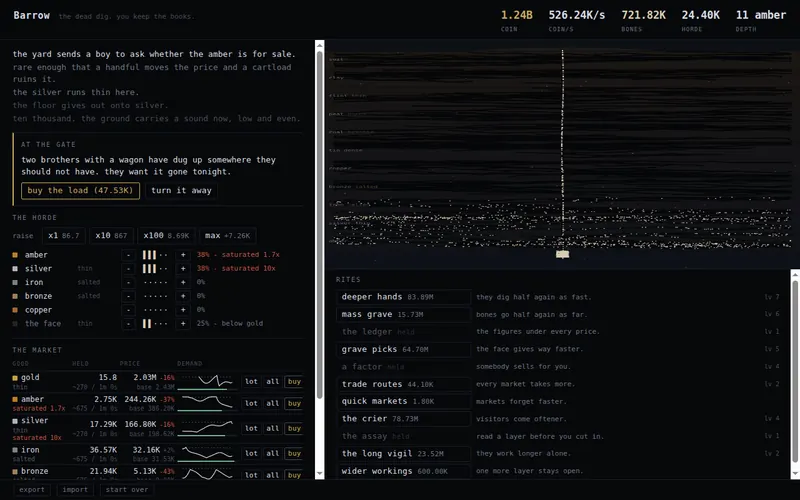
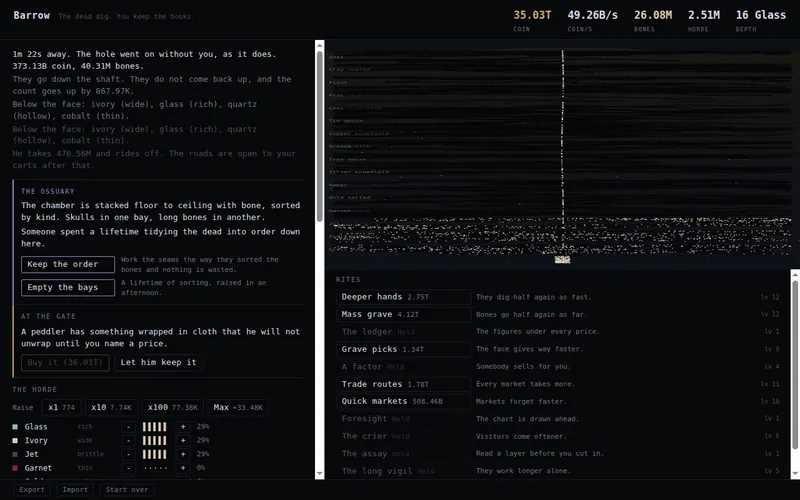
Barrow: build 6

diff --git a/barrow/src/visitors.js b/barrow/src/visitors.js
@@ -18,11 +18,11 @@
 // it was not handed.
 // ---------------------------------------------------------------------------
 
-import { hash, unit, range, pick } from './rng.js?v=5';
-import * as Mk from './market.js?v=5';
-import * as Lore from './lore.js?v=5';
-import { fill } from '../config.js?v=5';
-import { fmt, fmtCoin, fmtCount } from './numbers.js?v=5';
+import { hash, unit, range, pick } from './rng.js?v=6';
+import * as Mk from './market.js?v=6';
+import * as Lore from './lore.js?v=6';
+import { fill } from '../config.js?v=6';
+import { fmt, fmtCoin, fmtCount } from './numbers.js?v=6';
 
 const KINDS = ['buyer', 'buyer', 'bonecart', 'gang', 'reeve', 'relic', 'surveyor', 'mourner'];
 
@@ -46,13 +46,27 @@ function noteTaken(state, kind) {
   state.visitorsBought[kind] = takenOf(state, kind) + 1;
 }
 
-/** The kind at the gate: the seed's choice, or the next one still with stock. */
+/** Whether the ground the surveyor would read has already been read. */
+function groundIsRead(state, cfg) {
+  for (let i = 1; i <= cfg.visitors.surveyor.reads; i++) {
+    if (!state.read[state.depth + i]) return false;
+  }
+  return true;
+}
+
+/**
+ * The kind at the gate: the seed's choice, or the next one still worth
+ * hearing. A caller is skipped when there is nothing left for them to sell -
+ * the two who deal in permanent multipliers run out of stock, and a surveyor
+ * has nothing to say about ground that has already been read.
+ */
 function kindFor(state, cfg, i) {
   const start = hash(state.seed, 'visit-kind:' + i) % KINDS.length;
   for (let n = 0; n < KINDS.length; n++) {
     const kind = KINDS[(start + n) % KINDS.length];
     const limit = LIMITS[kind];
     if (limit && takenOf(state, kind) >= cfg.visitors[kind][limit]) continue;
+    if (kind === 'surveyor' && groundIsRead(state, cfg)) continue;
     return kind;
   }
   return KINDS[start];

diff --git a/barrow/src/sim.js b/barrow/src/sim.js
@@ -17,17 +17,17 @@
 // line they want said. The simulation never touches the page.
 // ---------------------------------------------------------------------------
 
-import { CONFIG as DEFAULT } from '../config.js?v=5';
-import * as Mat from './materials.js?v=5';
-import * as Mk from './market.js?v=5';
-import * as H from './horde.js?v=5';
-import * as R from './rites.js?v=5';
-import * as Rv from './reveal.js?v=5';
-import * as Ch from './chambers.js?v=5';
-import * as Vi from './visitors.js?v=5';
-import * as Rb from './rebirth.js?v=5';
-import * as Lore from './lore.js?v=5';
-import { createGround } from './ground.js?v=5';
+import { CONFIG as DEFAULT } from '../config.js?v=6';
+import * as Mat from './materials.js?v=6';
+import * as Mk from './market.js?v=6';
+import * as H from './horde.js?v=6';
+import * as R from './rites.js?v=6';
+import * as Rv from './reveal.js?v=6';
+import * as Ch from './chambers.js?v=6';
+import * as Vi from './visitors.js?v=6';
+import * as Rb from './rebirth.js?v=6';
+import * as Lore from './lore.js?v=6';
+import { createGround } from './ground.js?v=6';
 
 export const SAVE_VERSION = 2;
 

diff --git a/barrow/src/game.js b/barrow/src/game.js
@@ -14,16 +14,16 @@
 // reloads onto it.
 // ---------------------------------------------------------------------------
 
-import { storageKey, fill } from '../config.js?v=5';
-import { createSim, restoreSim, openedState } from './sim.js?v=5';
-import * as Save from './save.js?v=5';
-import * as Rb from './rebirth.js?v=5';
-import * as Lore from './lore.js?v=5';
-import { hash } from './rng.js?v=5';
-import { createUI } from './ui.js?v=5';
-import { createView } from './view.js?v=5';
-import { fmtTime, fmt, fmtCoin, fmtCount } from './numbers.js?v=5';
-import * as Mat from './materials.js?v=5';
+import { storageKey, fill } from '../config.js?v=6';
+import { createSim, restoreSim, openedState } from './sim.js?v=6';
+import * as Save from './save.js?v=6';
+import * as Rb from './rebirth.js?v=6';
+import * as Lore from './lore.js?v=6';
+import { hash } from './rng.js?v=6';
+import { createUI } from './ui.js?v=6';
+import { createView } from './view.js?v=6';
+import { fmtTime, fmt, fmtCoin, fmtCount } from './numbers.js?v=6';
+import * as Mat from './materials.js?v=6';
 
 /**
  * @param {object} o

diff --git a/barrow/src/ui.js b/barrow/src/ui.js
@@ -11,14 +11,14 @@
 // The panels appear in the order the reveal flags are set and never go away.
 // ---------------------------------------------------------------------------
 
-import * as Mat from './materials.js?v=5';
-import * as Mk from './market.js?v=5';
-import * as H from './horde.js?v=5';
-import * as R from './rites.js?v=5';
-import * as Rb from './rebirth.js?v=5';
-import * as Lore from './lore.js?v=5';
-import { fmt, fmtCoin, fmtCount, fmtRate, fmtTime, fmtPct } from './numbers.js?v=5';
-import { fill } from '../config.js?v=5';
+import * as Mat from './materials.js?v=6';
+import * as Mk from './market.js?v=6';
+import * as H from './horde.js?v=6';
+import * as R from './rites.js?v=6';
+import * as Rb from './rebirth.js?v=6';
+import * as Lore from './lore.js?v=6';
+import { fmt, fmtCoin, fmtCount, fmtRate, fmtTime, fmtPct } from './numbers.js?v=6';
+import { fill } from '../config.js?v=6';
 
 const SVG = 'http://www.w3.org/2000/svg';
 

diff --git a/barrow/src/view.js b/barrow/src/view.js
@@ -14,9 +14,9 @@
 // per-frame cost is the dots.
 // ---------------------------------------------------------------------------
 
-import { goodAt, valueAt, hardnessAt, absorbAt, capUnits } from './materials.js?v=5';
-import { distribute, activeFrom } from './horde.js?v=5';
-import * as Lore from './lore.js?v=5';
+import { goodAt, valueAt, hardnessAt, absorbAt, capUnits } from './materials.js?v=6';
+import { distribute, activeFrom } from './horde.js?v=6';
+import * as Lore from './lore.js?v=6';
 
 /** mulberry32 */
 function rng(seed) {

diff --git a/barrow/src/rebirth.js b/barrow/src/rebirth.js
@@ -12,10 +12,10 @@
 // hour is worth before spending it.
 // ---------------------------------------------------------------------------
 
-import * as Lore from './lore.js?v=5';
-import { pick } from './rng.js?v=5';
-import { fill } from '../config.js?v=5';
-import { fmt, fmtCoin, fmtCount } from './numbers.js?v=5';
+import * as Lore from './lore.js?v=6';
+import { pick } from './rng.js?v=6';
+import { fill } from '../config.js?v=6';
+import { fmt, fmtCoin, fmtCount } from './numbers.js?v=6';
 
 export const LEGACY_VERSION = 1;
 

diff --git a/barrow/src/ground.js b/barrow/src/ground.js
@@ -12,8 +12,8 @@
 // first ask, and stored nowhere: a save is still just a depth.
 // ---------------------------------------------------------------------------
 
-import * as Mat from './materials.js?v=5';
-import { pickWeighted, unit } from './rng.js?v=5';
+import * as Mat from './materials.js?v=6';
+import { pickWeighted, unit } from './rng.js?v=6';
 
 const ONE = { value: 1, hardness: 1, absorb: 1, bones: 1, swell: 1, cap: 1 };
 

diff --git a/barrow/index.html b/barrow/index.html
@@ -239,8 +239,8 @@
 // src/, every number lives in config.js, and every sentence lives in
 // content.js.
 // ---------------------------------------------------------------------------
-import { CONFIG, applyIdentity } from './config.js?v=5';
-import { createGame } from './src/game.js?v=5';
+import { CONFIG, applyIdentity } from './config.js?v=6';
+import { createGame } from './src/game.js?v=6';
 
 applyIdentity(document);
 

diff --git a/barrow/src/lore.js b/barrow/src/lore.js
@@ -10,9 +10,9 @@
 // values and gives back a sentence.
 // ---------------------------------------------------------------------------
 
-import { CONTENT } from '../content.js?v=5';
-import { pick } from './rng.js?v=5';
-import { fill } from '../config.js?v=5';
+import { CONTENT } from '../content.js?v=6';
+import { pick } from './rng.js?v=6';
+import { fill } from '../config.js?v=6';
 
 /**
  * One line from a log pool.

diff --git a/barrow/src/rites.js b/barrow/src/rites.js
@@ -9,9 +9,9 @@
 // them separately.
 // ---------------------------------------------------------------------------
 
-import * as Ch from './chambers.js?v=5';
-import * as Rb from './rebirth.js?v=5';
-import * as Lore from './lore.js?v=5';
+import * as Ch from './chambers.js?v=6';
+import * as Rb from './rebirth.js?v=6';
+import * as Lore from './lore.js?v=6';
 
 export function defs(cfg) {
   return cfg.rites.list;

diff --git a/barrow/src/chambers.js b/barrow/src/chambers.js
@@ -10,8 +10,8 @@
 // the next and both are fixed the moment the run begins.
 // ---------------------------------------------------------------------------
 
-import { hash } from './rng.js?v=5';
-import * as Lore from './lore.js?v=5';
+import { hash } from './rng.js?v=6';
+import * as Lore from './lore.js?v=6';
 
 /** Whether a chamber waits under layer k. */
 export function isChamberDepth(k, cfg) {

diff --git a/barrow/src/materials.js b/barrow/src/materials.js
@@ -7,7 +7,7 @@
 // reach it. Nothing here is stored, so a save is just k.
 // ---------------------------------------------------------------------------
 
-import { CONFIG } from '../config.js?v=5';
+import { CONFIG } from '../config.js?v=6';
 
 const ROMAN = ['', 'ii', 'iii', 'iv', 'v', 'vi', 'vii', 'viii', 'ix', 'x'];
 
